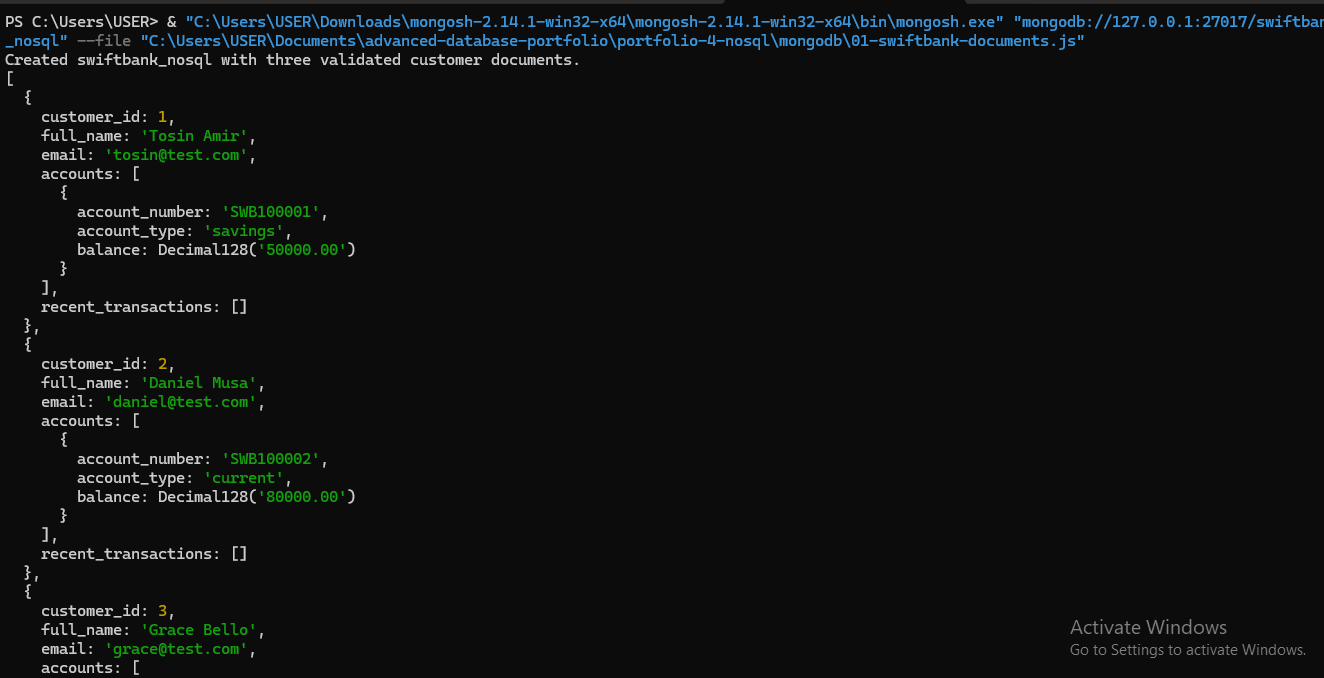
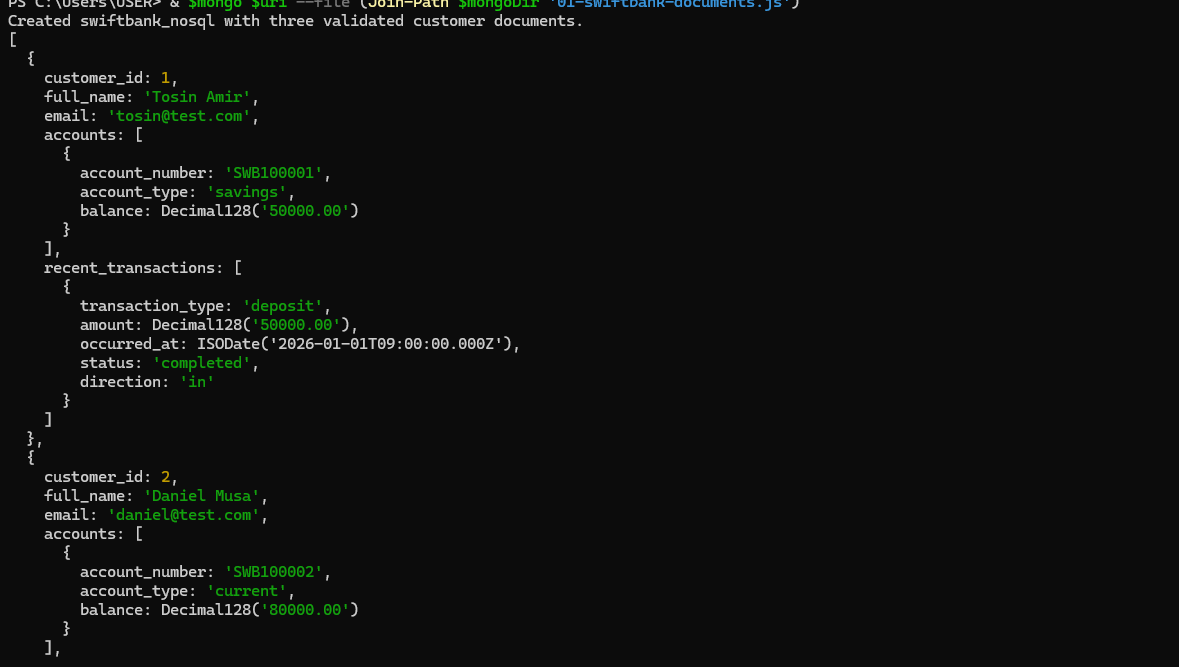
Add refreshed Portfolio 4 evidence screenshots

diff --git a/portfolio-4-nosql/README.md b/portfolio-4-nosql/README.md
@@ -41,16 +41,16 @@ The validator requires the key customer and account fields, checks the allowed a
 
 The earlier screenshots `evidence/01-...` through `evidence/07b-...` document the original prototype, which used numeric balances and in-place email updates. They are retained as historical evidence and are not proof of the revised validator or Decimal128 model.
 
-I will recapture these screenshots to document the current implementation:
+I recaptured the updated evidence from my local MongoDB Community Server 9.0.4 using standalone mongosh:
 
-- `evidence/08-decimal128-customer-document.png` and `evidence/08-decimal128-customer-document-b.png` — customer documents and embedded Decimal128 balances across two screenshots.
-- `evidence/09-embedded-account-queries.png` and `evidence/09b-savings-account-query.png` — embedded account data and savings-account query results across two screenshots.
+- `evidence/08-decimal128-customer-document.png`, `evidence/08-decimal128-customer-document-b.png` and `evidence/08-decimal128-customer-document-c.png` — all three customer documents with their embedded Decimal128 balances and recent transactions.
+- `evidence/09-embedded-account-queries.png` and `evidence/09-embedded-account-queries-b.png` through `evidence/09-embedded-account-queries-d.png` — the embedded-account query output across four captures, including the recent transaction arrays. `evidence/09b-savings-account-query.png` retains the earlier savings-account query capture.
 - `evidence/10-account-type-aggregation.png` — counts and Decimal128 totals by account type.
-- `evidence/11-validator-and-unique-indexes.png` — the collection validator and both unique indexes.
+- `evidence/11-validator-and-unique-indexes.png` and `evidence/11-validator-and-unique-indexes-b.png` through `evidence/11-validator-and-unique-indexes-d.png` — both unique indexes and the full current collection validator, including the recent-transaction status and direction fields.
 - `evidence/12-email-index-execution-stats.png` — the email lookup plan and execution statistics.
 - `evidence/13-invalid-document-rejected.png` — actual validation error for the invalid account type.
 
-I captured the revised screenshots from my local MongoDB Community Server 9.0.4 using standalone mongosh. They document these local results only. This collection has three documents, so its explain output demonstrates the selected index but cannot establish a meaningful performance improvement.
+These captures document my local results only. This collection has three documents, so its explain output demonstrates the selected index but cannot establish a meaningful performance improvement.
 
 ## Suitability and limitations
 
